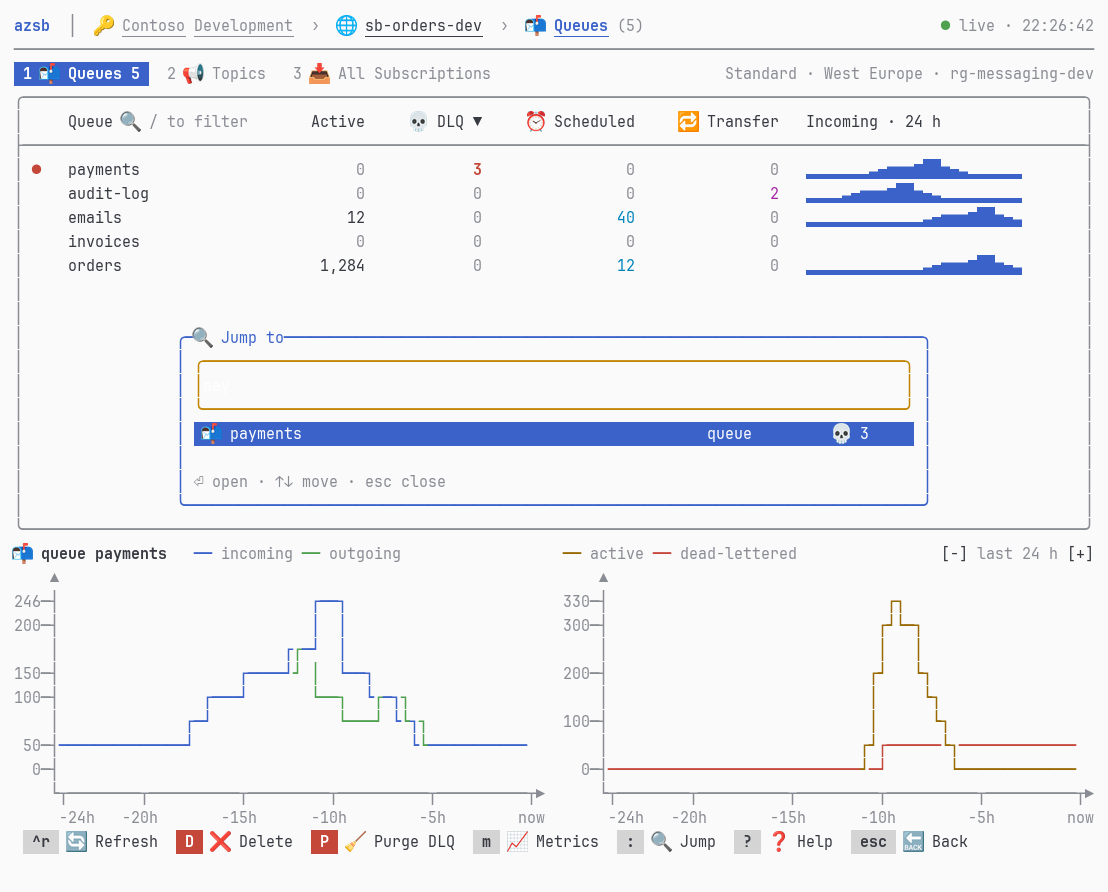
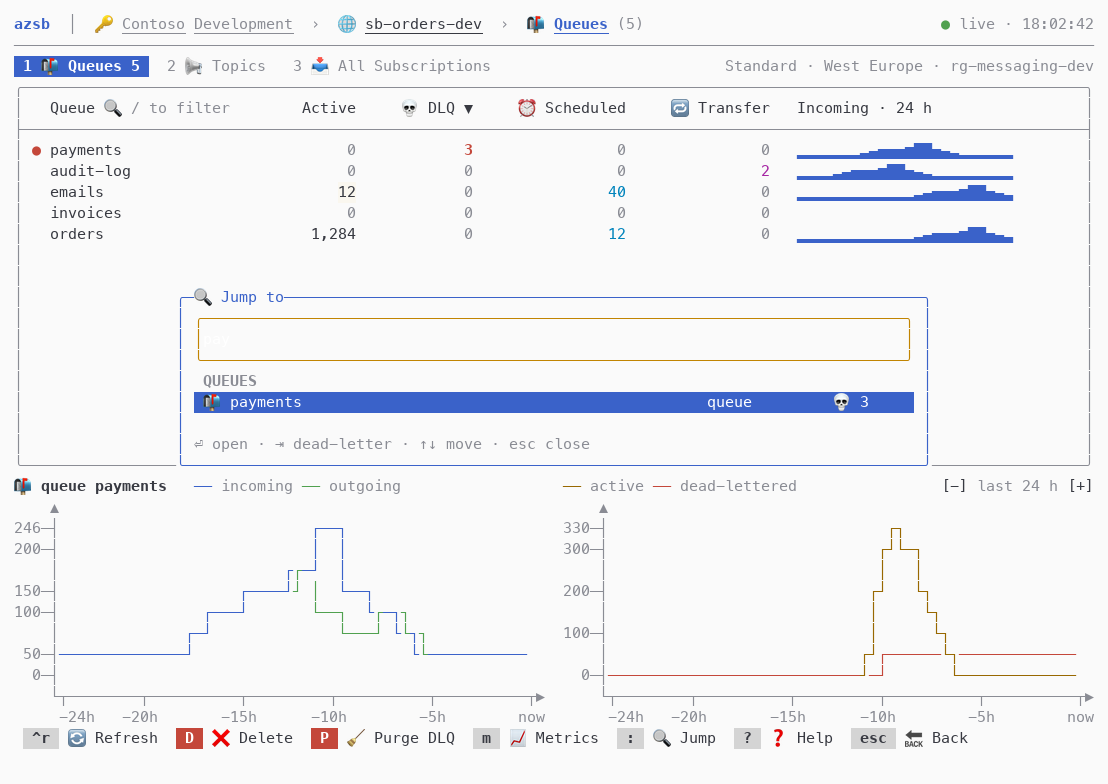
Group jump results by kind; Tab opens the match's dead-letter queue (#174)
![Jump](https://github.com/zidad/azure-servicebus-console/blob/redesign/jump-tab-groups/docs/screenshots/jump.png?raw=true)

- Results under QUEUES, TOPICS, SUBSCRIPTIONS headers, ranked within
each (`JumpIndex.Grouped`)
- ⏎ opens a queue or subscription on its Active tab, ⇥ on its
dead-letter queue; a topic opens itself
- Input keeps focus while the dialog is open (Tab with no match)
- Hint line lists ⇥; jump screenshot updated
- Part of #132

diff --git a/tests/ServiceBusConsole.Tests/JumpTests.cs b/tests/ServiceBusConsole.Tests/JumpTests.cs
@@ -31,6 +31,17 @@ public sealed class JumpTests
     }
 
     [Test]
+    public void Grouped_KeepsRankWithinEachKind_InKindOrder()
+    {
+        var groups = JumpIndex.Grouped("pay", Targets);
+
+        groups.Select(g => g.Kind).ShouldBe([JumpKind.Queue, JumpKind.Subscription]);
+        groups[0].Targets.Select(t => t.Name).ShouldBe(["payments", "payments-retry"]);
+        groups[1].Targets.Select(t => t.Name).ShouldBe(["order-events/payments"]);
+        JumpIndex.Grouped("order", Targets).Select(g => g.Kind).ShouldBe([JumpKind.Queue, JumpKind.Topic, JumpKind.Subscription]);
+    }
+
+    [Test]
     public async Task Colon_FindsASubscription_AndOpensItsBrowser()
     {
         var app = new AppHarness();
@@ -52,5 +63,43 @@ public sealed class JumpTests
         await terminal.SendKeyAsync(ConsoleKey.Enter, '\r', cancellationToken: Ct);
 
         await terminal.WaitUntilAsync(f => f.GetLine(0).Contains("📥 billing"), AppHarness.Timeout, cancellationToken: Ct);
+        await terminal.WaitUntilAsync(_ => app.Messages.Peeked.Count > 0, AppHarness.Timeout, cancellationToken: Ct);
+        app.Messages.Peeked.ShouldBe([new MessageSource.Subscription("order-events", "billing", IsDlq: false)]);
+    }
+
+    [Test]
+    public async Task Tab_OpensTheMatchsDeadLetterQueue_UnderItsGroup()
+    {
+        var app = new AppHarness();
+        app.Queues.Queues.Add(new QueueInfo { Name = "orders" });
+        app.Queues.Queues.Add(new QueueInfo { Name = "payments", DeadLetterMessageCount = 3 });
+        app.Topics.Topics.Add(new TopicInfo { Name = "order-events", SubscriptionCount = 1 });
+        app.Topics.Subscriptions.Add(new SubscriptionInfo { TopicName = "order-events", Name = "billing" });
+        await using var terminal = await app.OpenQueuesAsync();
+        await terminal.WaitForTextAsync("Queues (2)", AppHarness.Timeout, Ct);
+        await AppHarness.WaitForTableFocusAsync(terminal);
+        var table = terminal.FocusKey;
+
+        await terminal.SendKeyAsync(ConsoleKey.Oem1, ':', ConsoleModifiers.Shift, Ct);
+        await terminal.WaitForTextAsync("🔍 Jump to", AppHarness.Timeout, Ct);
+        await AppHarness.WaitForFocusAsync(terminal, "100", table);
+        var input = terminal.FocusKey;
+        await terminal.TypeAsync("zz", Ct);
+        await terminal.WaitForTextAsync("Nothing matches.", AppHarness.Timeout, Ct);
+        await terminal.SendKeyAsync(ConsoleKey.Tab, '\t', cancellationToken: Ct);
+        await AppHarness.WaitForSettledAsync(terminal, _ => terminal.FocusKey == input);
+        await terminal.SendKeyAsync(ConsoleKey.Backspace, '\b', cancellationToken: Ct);
+        await terminal.SendKeyAsync(ConsoleKey.Backspace, '\b', cancellationToken: Ct);
+        await terminal.TypeAsync("pay", Ct);
+        var frame = await terminal.WaitUntilAsync(f => f.ContainsText("📬 payments") && !f.ContainsText("📬 orders"), AppHarness.Timeout, cancellationToken: Ct);
+        var header = frame.ScreenText.Split('\n').ToList();
+        header.FindIndex(l => l.Contains(" QUEUES")).ShouldBe(header.FindIndex(l => l.Contains("📬 payments")) - 1, frame.ScreenText);
+        frame.ContainsText(" TOPICS").ShouldBeFalse(frame.ScreenText);
+
+        await terminal.SendKeyAsync(ConsoleKey.Tab, '\t', cancellationToken: Ct);
+
+        await terminal.WaitUntilAsync(f => f.GetLine(0).Contains("payments") && !f.ContainsText("Jump to"), AppHarness.Timeout, cancellationToken: Ct);
+        await terminal.WaitUntilAsync(_ => app.Messages.Peeked.Count > 0, AppHarness.Timeout, cancellationToken: Ct);
+        app.Messages.Peeked.ShouldBe([new MessageSource.Queue("payments", IsDlq: true)]);
     }
 }

diff --git a/src/ServiceBusConsole/UI/JumpIndex.cs b/src/ServiceBusConsole/UI/JumpIndex.cs
@@ -19,6 +19,10 @@ public static class JumpIndex
             .Select(r => r.Target)];
     }
 
+    /// <summary>The <see cref="Search"/> results by kind (queues, topics, subscriptions), keeping their rank within each.</summary>
+    public static IReadOnlyList<JumpGroup> Grouped(string? query, IEnumerable<JumpTarget> targets, int max = 12) =>
+        [.. Search(query, targets, max).GroupBy(t => t.Group).OrderBy(g => g.Key).Select(g => new JumpGroup(g.Key, [.. g]))];
+
     /// <summary>0 prefix, 1 contains, 2 letters in order, null no match; any name matches an empty query.</summary>
     public static int? Rank(string name, string query) => query.Length == 0 ? 0
         : name.StartsWith(query, StringComparison.OrdinalIgnoreCase) ? 0

diff --git a/src/ServiceBusConsole/UI/JumpTarget.cs b/src/ServiceBusConsole/UI/JumpTarget.cs
@@ -28,5 +28,7 @@ public abstract record JumpTarget
 
     public string Kind => Match(_ => UIStrings.JumpTarget_Queue, _ => UIStrings.JumpTarget_Topic, _ => UIStrings.JumpTarget_Subscription);
 
+    public JumpKind Group => Match(_ => JumpKind.Queue, _ => JumpKind.Topic, _ => JumpKind.Subscription);
+
     public long DeadLetters => Match(q => q.Info.DeadLetterMessageCount, _ => 0, s => s.Info.DeadLetterMessageCount);
 }

diff --git a/src/ServiceBusConsole/UI/JumpGroup.cs b/src/ServiceBusConsole/UI/JumpGroup.cs
@@ -1,0 +1,12 @@
+namespace ServiceBusConsole.UI;
+
+/// <summary>The matches of one kind, in rank order.</summary>
+public sealed record JumpGroup(JumpKind Kind, IReadOnlyList<JumpTarget> Targets)
+{
+    public string Title => Kind switch
+    {
+        JumpKind.Queue => Strings.Queues,
+        JumpKind.Topic => Strings.Topics,
+        _ => Strings.Subscriptions,
+    };
+}

diff --git a/src/ServiceBusConsole/UI/JumpKind.cs b/src/ServiceBusConsole/UI/JumpKind.cs
@@ -1,0 +1,4 @@
+namespace ServiceBusConsole.UI;
+
+/// <summary>The jump dialog's result groups, in the order it shows them.</summary>
+public enum JumpKind { Queue, Topic, Subscription }

diff --git a/CLAUDE.md b/CLAUDE.md
@@ -129,7 +129,7 @@ This is a .NET 10 terminal UI app that browses Azure Service Bus namespaces, que
 - Text a user can override with placeholders of their own (`ClaudePrompt.Default`) and generated documents for tools (`SessionMarkdown`, issue bodies) stay in code
 - In scope: labels, key hints, titles, dialogs, status, errors shown in the UI or CLI (including exception messages that reach `ErrorModal`), CLI help and output, plugin labels, settings descriptions and results. Not: log messages, config keys, routes, queries (KQL), CLI option names, icons (`Icons`), test expectations (tests keep literal English, so they catch text changes)
 
-**Keys:** a page lists its keys once as `KeyBinding`s (`Keys` property); `KeyHints` renders the footer from them, `HelpDialog` (`?`) lists them all and `KeyBinding.Dispatch` runs them from `HandleKeyDown`, after `AsyncCommand.HandleKey` (y/n) and the filter. Letters are commands, Shift for anything that deletes or moves messages (`D`, `P`, `R`, `X`), `^r` refresh; each F-key of earlier versions stays as an `Aliases` entry. `:` opens `JumpDialog` on the section lists and the browser: `JumpIndex.Search` (pure, prefix > contains > letters in order, dead letters first) over the namespace's queues, topics and subscriptions, from the cached listings or live when not cached. Lists filter on `/` (`ListFilter`: typing edits, Enter keeps, Escape clears; `NavigableTBody.TakeKey` lets Enter end the edit); only the header dropdown filters as you type. `KeyButton` doesn't forward Space or Enter to the page: they click it.
+**Keys:** a page lists its keys once as `KeyBinding`s (`Keys` property); `KeyHints` renders the footer from them, `HelpDialog` (`?`) lists them all and `KeyBinding.Dispatch` runs them from `HandleKeyDown`, after `AsyncCommand.HandleKey` (y/n) and the filter. Letters are commands, Shift for anything that deletes or moves messages (`D`, `P`, `R`, `X`), `^r` refresh; each F-key of earlier versions stays as an `Aliases` entry. `:` opens `JumpDialog` on the section lists and the browser: `JumpIndex.Search` (pure, prefix > contains > letters in order, dead letters first) over the namespace's queues, topics and subscriptions, from the cached listings or live when not cached, shown by kind (`JumpIndex.Grouped`); `⏎` opens the Active tab, `⇥` the dead-letter queue. Lists filter on `/` (`ListFilter`: typing edits, Enter keeps, Escape clears; `NavigableTBody.TakeKey` lets Enter end the edit); only the header dropdown filters as you type. `KeyButton` doesn't forward Space or Enter to the page: they click it.
 
 **Focus:** request focus once with `FocusManager.FocusAsync`; it keeps the request until the target renders. A retry loop can replace a later request (e.g. a dialog's OK) with one for an element that is gone.
 
